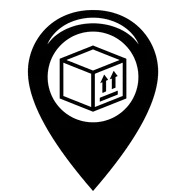
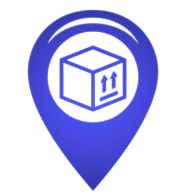
Avanzo con selector de punto de retiro - mapa

diff --git a/resources/views/livewire/ecommerce/dropoff-point-selector.blade.php b/resources/views/livewire/ecommerce/dropoff-point-selector.blade.php
@@ -1,4 +1,13 @@
 <div>
+    <style>
+        .selected {
+            border-left: 2px solid blue;
+            background-color: #eff6ff;
+        }
+        .selected:hover {
+            background-color: #eff6ff !important; 
+        }
+    </style>
     <div x-init="window.scrollTo({ top: 0, behavior: 'smooth'})">
 
         <h4 class="text-sm/6 font-semibold text-gray-900 mb-2">Seleccionar sucursal de retiro</h4>
@@ -31,10 +40,13 @@
                         shadow-sm focus:border-blue-500 focus:ring-blue-500 sm:text-sm">
                     </div>
 
-                    <ul class="no-select max-h-[300px] flow-root overflow-y-auto" scrollbar-thin>
+                    <ul id="dropoff-options" class="no-select max-h-[300px] flow-root overflow-y-auto" scrollbar-thin>
                         @foreach (session('rates_results.dropoff_rates') as $rate)
                             @foreach ($rate->branches as $rate_branch)
-                                <li wire:key='{{ $rate->key }}' data-branch='{!! json_encode($rate_branch) !!}'                                class="relative flex items-center cursor-pointer dropoff-point
+                                <li wire:key='{{ $rate->key . $rate_branch->external_id }}' 
+                                id="{{ $rate->key . $rate_branch->external_id }}"
+                                data-rate-key="{{ $rate->key }}" data-branch-id='{{ $rate_branch->external_id }}'
+                                class="relative flex items-center cursor-pointer dropoff-point
                                 border-b pr-2 py-4 focus:outline-none hover:bg-gray-50">
                                     <div class="ml-3 flex items-center justify-between w-full">
                                         <div class="flex items-center text-sm">
@@ -44,8 +56,8 @@
                                                 <x-icon code="store" class="text-blue-500" />
                                             </div>
         
-                                            <div class="flex-1">
-                                                <h5 class="font-medium mb-0.5 text-xs">
+                                            <div class="flex-1 gap-y-3">
+                                                <h5 class="font-medium mb-1 text-xs">
                                                      {{ $rate_branch->name }}
                                                 </h5>
 
@@ -53,28 +65,28 @@
                                                     {{ $rate_branch->address->summary() }}
                                                 </span>
 
-                                                <span class="block text-xs text-green-700 font-semibold">
+                                                <span class="block text-xs text-green-700 font-semibold mb-1">
                                                     ${{ priceFormat($rate_branch->price ?? $rate->price) }}
                                                 </span>
 
                                                 @if ($rate_branch->phone)
-                                                    <span class="block text-xs text-gray-700">
+                                                    <span class="block text-xs text-gray-700 mb-1">
                                                         {{ $rate_branch->phone }}
                                                     </span>
                                                 @endif
 
                                                 @if ($rate_branch->schedule)
-                                                    <span class="block text-xs text-gray-700">
+                                                    <span class="block text-xs text-gray-700 mb-1">
                                                         Horarios: {{ $rate_branch->schedule }}
                                                     </span>
                                                 @endif
 
-                                                <span class="block text-xs text-gray-700">
+                                                <span class="block text-xs text-gray-700 mb-1">
                                                     Estimado: {{ $rate->estimate }}
                                                 </span>
                                             </div>
                                         </div>
-                                        <div>
+                                        <div class="ml-2">
                                             <x-button size="small">Elegir</x-button>
                                         </div>
                                     </div>
@@ -108,6 +120,8 @@
         let map = null;
         let markers = [];
 
+        const dropoffOptionList = document.getElementById('dropoff-options');
+
         const dropoffPoints = JSON.parse('{!! session('rates_results.dropoff_rates') !!}');
 
         const addressPosition = { 
@@ -117,12 +131,12 @@
 
         const homeIcon = {
             url: '{{ URL::to('img/home-pin.png') }}',
-            scaledSize: new google.maps.Size(50, 50), // scaled size
+            scaledSize: new google.maps.Size(62, 62), // scaled size
         };
 
         const dropoffIcon = {
             url: '{{ URL::to('img/dropoff-pin.png') }}',
-            scaledSize: new google.maps.Size(50, 50), // scaled size
+            scaledSize: new google.maps.Size(60, 60), // scaled size
         };
 
         const initMap = () => 
@@ -142,11 +156,11 @@
                 }]
             });
 
-            createUserMarker();
+            createAddressMarker();
             createDropoffMarkers();
         }
 
-        const createUserMarker = () => 
+        const createAddressMarker = () => 
         {
             const userMarker = new google.maps.Marker({
                 position: addressPosition,
@@ -166,25 +180,24 @@
 
         const createDropoffMarkers = () => 
         {
-            for(let point of Object.values(dropoffPoints))
+            for(let rate of Object.values(dropoffPoints))
             {
-                point.branches.forEach((branch) => 
+                rate.branches.forEach((branch) => 
                 {
                     const marker = new google.maps.Marker({
                         position: {
                             lat: parseFloat(branch.address.coordinates.lat),
                             lng: parseFloat(branch.address.coordinates.lng)
                         },
-                        title: 'Punto de retíro',
+                        title: branch.name,
                         animation: google.maps.Animation.DROP,
                         map: map,
+                        id: `${rate.key}${branch.external_id}`,
                         icon: dropoffIcon,
-                        data: {result: true, marker: branch.external_id}
+                        data: {rate_key: rate.key, branch_id: branch.external_id}
                     });
 
-                    marker.addListener("click", function() {
-                        console.log(marker.data);
-                    });
+                    marker.addListener("click", () => selectOption(rate.key, branch.external_id));
 
                     markers.push(marker);
                 });
@@ -197,14 +210,36 @@
         {
             point.addEventListener('click', (evt) => 
             {
-                const branch = JSON.parse(evt.currentTarget.dataset.branch);
+                const rateKey = evt.currentTarget.dataset.rateKey;
+                const branchId = evt.currentTarget.dataset.branchId;
 
-                map.setCenter({
-                    lat: parseFloat(branch.address.coordinates.lat),
-                    lng: parseFloat(branch.address.coordinates.lng)
-                });
+                selectOption(rateKey, branchId);
             })
         });
+
+        const selectOption = (rateKey, branchId) =>
+        {
+            const rate = Object.values(dropoffPoints).find(rate => rate.key == rateKey);
+            const branch = rate.branches.find(branch => branch.external_id == branchId);
+
+            const elementOption = document.getElementById(rateKey + branchId);
+
+            dropoffOptionList.scrollTop = (elementOption.offsetTop - 60);
+
+            document.querySelectorAll('.dropoff-point').forEach((point) => 
+            {
+                point.classList.remove('selected');
+            })
+
+            elementOption.classList.add('selected');
+
+            map.setCenter({
+                lat: parseFloat(branch.address.coordinates.lat),
+                lng: parseFloat(branch.address.coordinates.lng)
+            });
+
+            map.setZoom(16);
+        }
     </script>
     @endscript
 </div>

diff --git a/resources/views/layouts/ecommerce.blade.php b/resources/views/layouts/ecommerce.blade.php
@@ -11,7 +11,7 @@
     <meta http-equiv="X-UA-Compatible" content="ie=edge">
     <link href="https://fonts.googleapis.com/css?family=Poppins" rel="stylesheet">
     <link rel="stylesheet" href="https://fonts.googleapis.com/css2?family=Material+Symbols+Outlined:opsz,wght,FILL,GRAD@24,400,0,0" />
-    <script async src="https://maps.googleapis.com/maps/api/js?key={{ env('MAPS_API_KEY') }}&loading=async&libraries=marker&v=3.59" defer></script>
+    <script async src="https://maps.googleapis.com/maps/api/js?key={{ env('MAPS_API_KEY') }}&loading=async&libraries=marker&v=beta" defer></script>
     {{-- <script src="https://unpkg.com/@googlemaps/markerclusterer/dist/index.min.js"></script> --}}
     <script src="https://cdn.jsdelivr.net/npm/@ryangjchandler/alpine-tooltip@1.x.x/dist/cdn.min.js" defer></script>
     <link rel="stylesheet" href="https://unpkg.com/tippy.js@6/dist/tippy.css" />
